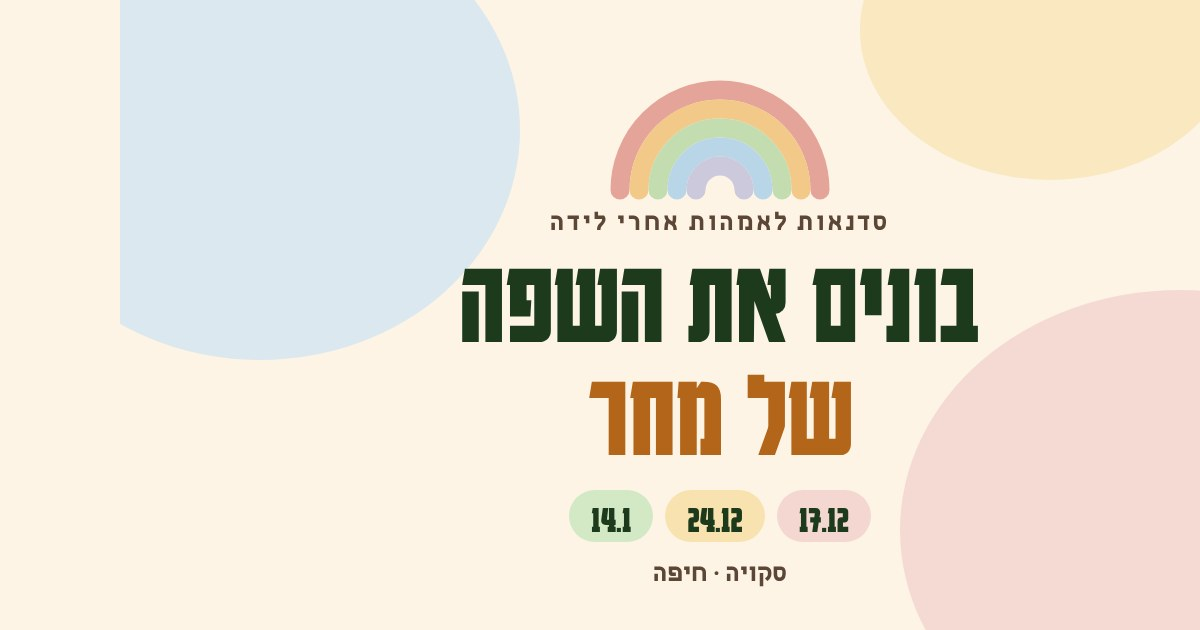
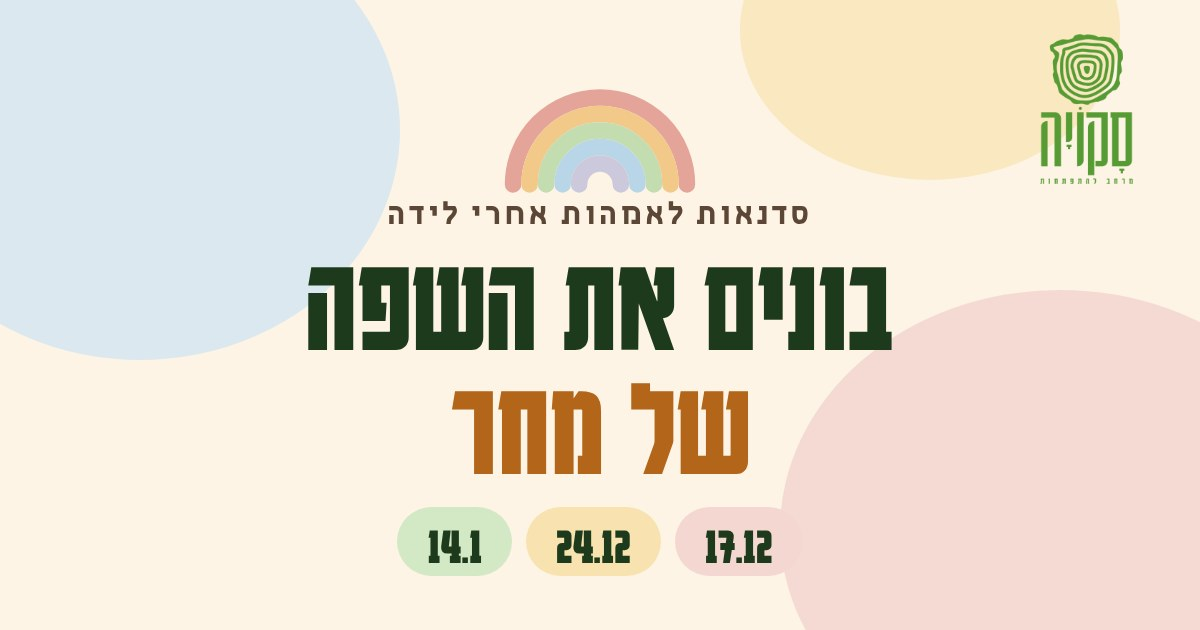
תצוגת שיתוף: תמונה עם הלוגו ומרכז נכון, כותרת ותיאור בלי רשימת תאריכים
Claude-Session: https://claude.ai/code/session_011XVnjjEEqiXzWU2rZz1ZUP

diff --git a/mothers-and-babies.html b/mothers-and-babies.html
@@ -12,8 +12,8 @@
 <meta property="og:site_name" content="סקויה - מרחב להתפתחות">
 <meta property="og:locale" content="he_IL">
 <meta property="og:url" content="https://sakoya-center.com/mothers-and-babies">
-<meta property="og:title" content="בונים את השפה של מחר | סדנאות לאמהות אחרי לידה בסקויה">
-<meta property="og:description" content="שלוש סדנאות לאמהות ולתינוקות בחיפה: תקשורת והדיות, ג׳סטות וקולות, וספרים. 17.12, 24.12 ו-14.1.">
+<meta property="og:title" content="סדנאות לאמהות אחרי לידה בחיפה | סקויה">
+<meta property="og:description" content="שלוש סדנאות לאמהות ולתינוקות: תקשורת והדיות, ג׳סטות וקולות, וספרים. תוכן מעשי, תרגול משותף וזמן להתאוורר ביחד.">
 <meta property="og:image" content="https://sakoya-center.com/img/og-postpartum.jpg">
 <meta property="og:image:secure_url" content="https://sakoya-center.com/img/og-postpartum.jpg">
 <meta property="og:image:type" content="image/jpeg">
@@ -21,8 +21,8 @@
 <meta property="og:image:height" content="630">
 <meta property="og:image:alt" content="בונים את השפה של מחר, סדנאות לאמהות אחרי לידה בסקויה, חיפה">
 <meta name="twitter:card" content="summary_large_image">
-<meta name="twitter:title" content="בונים את השפה של מחר | סדנאות לאמהות אחרי לידה בסקויה">
-<meta name="twitter:description" content="שלוש סדנאות לאמהות ולתינוקות בחיפה: תקשורת והדיות, ג׳סטות וקולות, וספרים. 17.12, 24.12 ו-14.1.">
+<meta name="twitter:title" content="סדנאות לאמהות אחרי לידה בחיפה | סקויה">
+<meta name="twitter:description" content="שלוש סדנאות לאמהות ולתינוקות: תקשורת והדיות, ג׳סטות וקולות, וספרים. תוכן מעשי, תרגול משותף וזמן להתאוורר ביחד.">
 <meta name="twitter:image" content="https://sakoya-center.com/img/og-postpartum.jpg">
 <link rel="preload" href="fonts/Karantina-Bold.ttf" as="font" type="font/ttf" crossorigin>
 <link rel="preload" href="fonts/Carmelit-Regular.ttf" as="font" type="font/ttf" crossorigin>
